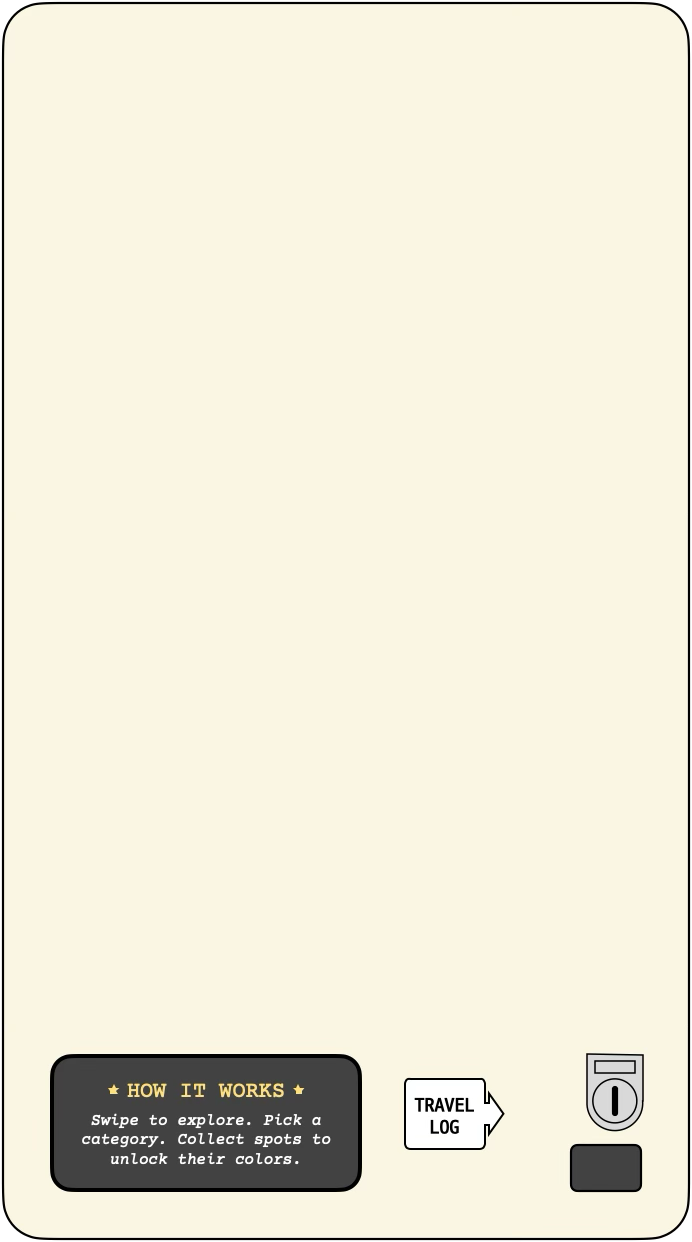
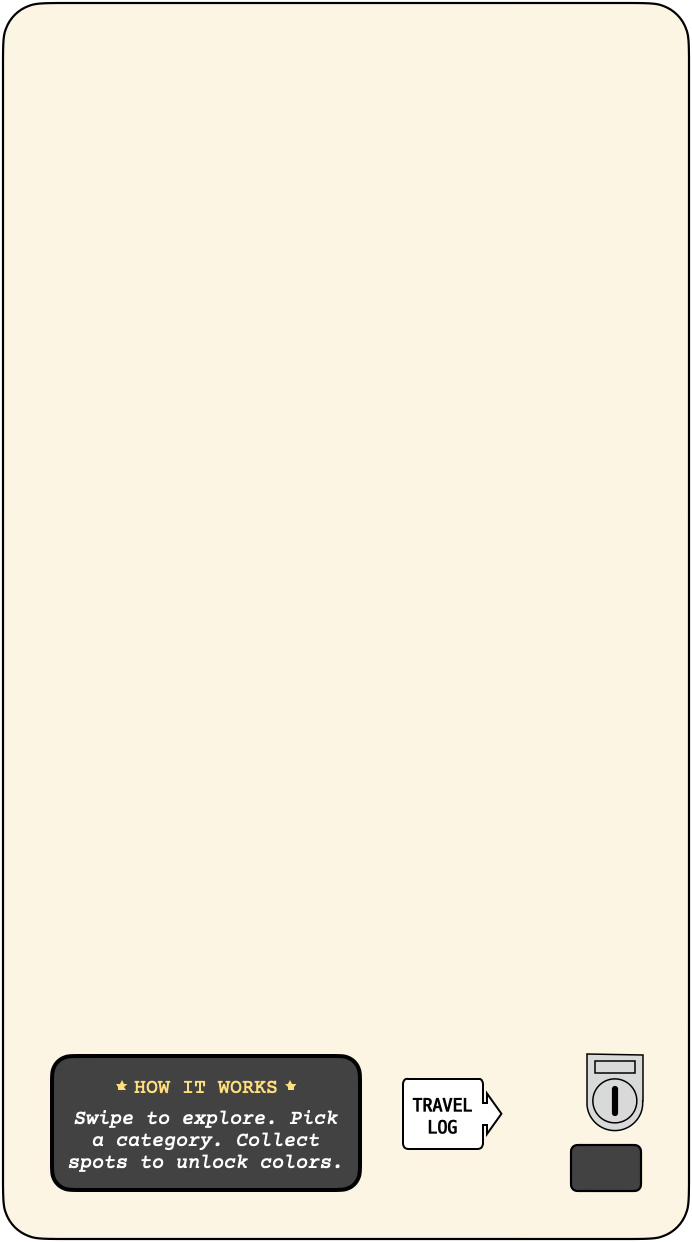
fix: 수정된 api에 맞게 도감 코드 수정

Changed region(s): [[0.091, 0.8567, 0.4855, 0.9485], [0.5766, 0.8567, 0.7283, 0.9179]]

diff --git a/src/shared/api/schema.d.ts b/src/shared/api/schema.d.ts
@@ -919,6 +919,26 @@ export interface paths {
         patch?: never;
         trace?: never;
     };
+    "/api/itineraries/{itineraryId}/days/{dayId}/items/{itemId}/travel-mode/options": {
+        parameters: {
+            query?: never;
+            header?: never;
+            path?: never;
+            cookie?: never;
+        };
+        /**
+         * 이동수단 변경 후보 옵션 조회 (담당: 윤제승)
+         * @description 직전 방문 항목과의 구간에 대해 선택 가능한 이동수단 후보(버스/지하철/택시/도보)와 각각의 실제 소요시간·요금을 조회합니다. DB에 저장된 값이 아니라 매번 새로 계산한 값이며, 확정하려면 이동수단 변경(travel-mode) API를 별도로 호출해야 합니다.
+         */
+        get: operations["getTravelModeOptions"];
+        put?: never;
+        post?: never;
+        delete?: never;
+        options?: never;
+        head?: never;
+        patch?: never;
+        trace?: never;
+    };
     "/api/itineraries/vote-sessions/{sessionId}": {
         parameters: {
             query?: never;
@@ -1494,6 +1514,7 @@ export interface components {
             startStationName?: string;
             endStationName?: string;
             startArsId?: string;
+            transitDetail?: components["schemas"]["TransitDetail"];
             memo?: string;
         };
         SpotSummary: {
@@ -1507,6 +1528,57 @@ export interface components {
             thumbnailUrl?: string;
             collected?: boolean;
             visited?: boolean;
+        };
+        SubwayDeparture: {
+            departureTime?: string;
+            /** Format: int32 */
+            subwayClass?: number;
+            /** Format: int32 */
+            firstLastFlag?: number;
+        };
+        SubwaySegmentTimetable: {
+            /** Format: int32 */
+            subPathIndex?: number;
+            startStationName?: string;
+            endStationName?: string;
+            lineName?: string;
+            /** Format: int32 */
+            wayCode?: number;
+            upcomingDepartures?: components["schemas"]["SubwayDeparture"][];
+            /** Format: int32 */
+            nextDepartureMinutes?: number;
+            transferInfo?: components["schemas"]["SubwayTransitInfo"];
+        };
+        SubwayTransferDetail: {
+            /** Format: int32 */
+            takeStationId?: number;
+            takeLaneName?: string;
+            /** Format: int32 */
+            exStationId?: number;
+            exLaneName?: string;
+            /** Format: int32 */
+            fastTrainNo?: number;
+            /** Format: int32 */
+            fastTrainDoor?: number;
+        };
+        SubwayTransitInfo: {
+            /** Format: int32 */
+            count?: number;
+            transitTotalInfo?: components["schemas"]["SubwayTransferDetail"][];
+        };
+        TransitDetail: {
+            segments?: components["schemas"]["TransitDetailSegment"][];
+        };
+        TransitDetailSegment: {
+            /** Format: int32 */
+            index?: number;
+            trafficType?: string;
+            startName?: string;
+            endName?: string;
+            routeNo?: string;
+            /** Format: int32 */
+            sectionTime?: number;
+            subwaySchedule?: components["schemas"]["SubwaySegmentTimetable"];
         };
         CreateItineraryRequest: {
             planType?: string;
@@ -1844,6 +1916,7 @@ export interface components {
             startStationName?: string;
             endStationName?: string;
             startArsId?: string;
+            transitDetail?: components["schemas"]["TransitDetail"];
         };
         ApiResponseString: {
             success?: boolean;
@@ -2002,6 +2075,11 @@ export interface components {
             /** Format: date-time */
             updatedAt?: string;
         };
+        ApiResponseListTransitOption: {
+            success?: boolean;
+            message?: string;
+            data?: components["schemas"]["TransitOption"][];
+        };
         ApiResponseListGroupMemberResponse: {
             success?: boolean;
             message?: string;
@@ -2042,23 +2120,13 @@ export interface components {
             /** Format: date-time */
             collectedAt?: string;
         };
-        CollectionResponse: {
-            /** Format: uuid */
-            spotId?: string;
-            contentId?: string;
-            name?: string;
-            category?: string;
-            collectionCategory?: string;
-            thumbnailUrl?: string;
-            /** Format: date-time */
-            collectedAt?: string;
-        };
         MyCollectionResponse: {
             /** Format: int64 */
             totalCount?: number;
             /** Format: int64 */
             collectedCount?: number;
-            entries?: components["schemas"]["CollectionResponse"][];
+            entries?: components["schemas"]["CollectionListResponse"][];
+            uncollectedEntries?: components["schemas"]["CollectionListResponse"][];
         };
         BookmarkListResponse: {
             /** Format: uuid */
@@ -3329,6 +3397,30 @@ export interface operations {
                 };
                 content: {
                     "*/*": components["schemas"]["ApiResponseListLogExistenceResponse"];
+                };
+            };
+        };
+    };
+    getTravelModeOptions: {
+        parameters: {
+            query?: never;
+            header?: never;
+            path: {
+                itineraryId: string;
+                dayId: string;
+                itemId: string;
+            };
+            cookie?: never;
+        };
+        requestBody?: never;
+        responses: {
+            /** @description OK */
+            200: {
+                headers: {
+                    [name: string]: unknown;
+                };
+                content: {
+                    "*/*": components["schemas"]["ApiResponseListTransitOption"];
                 };
             };
         };

diff --git a/src/app/collection/page.tsx b/src/app/collection/page.tsx
@@ -1,10 +1,9 @@
 "use client";
 
-import { useEffect, useState } from "react";
+import { useEffect, useMemo, useState } from "react";
 import { useRouter, useSearchParams } from "next/navigation";
 import { VendingMachine } from "@/features/collection/components/VendingMachine";
 import { Shelf } from "@/features/collection/components/Shelf";
-import { useCollectionProgress } from "@/shared/hooks/useCollectionProgress";
 import { useQuery } from "@tanstack/react-query";
 import { getMyCollection, keys as collectionKeys } from "@/shared/api/domains/collection";
 import {
@@ -35,14 +34,17 @@ export default function CollectionPage() {
     queryFn: getMyCollection,
   });
 
-  const spots = collection?.entries ?? [];
+  const spots = useMemo(
+    () => [...(collection?.entries ?? []), ...(collection?.uncollectedEntries ?? [])],
+    [collection],
+  );
 
   useEffect(() => {
     spots.forEach((spot) => {
       if (!spot.name) return;
 
       const image = new window.Image();
-      image.src = `/collection/${spot.name}.png`;
+      image.src = `/collxection/${spot.name}.png`;
     });
   }, [spots]);
 

diff --git a/src/features/collection/components/VendingMachine.tsx b/src/features/collection/components/VendingMachine.tsx
@@ -235,10 +235,10 @@ active:shadow-collection-button-active transition-transform active:translate-x-[
         onClick={handleRecordLeverClick}
         className="absolute left-[76%] top-[87%] z-10 h-[9%] w-[10%]"
       >
-        <span className="absolute bottom-[53%] left-[22%] aspect-square w-[60%] -translate-x-1/2 rounded-full border border-collection-border bg-collection-lever" />
+        <span className="absolute bottom-[53%] left-[21%] aspect-square w-[60%] -translate-x-1/2 rounded-full border border-collection-border bg-collection-lever" />
 
         <span
-          className={`absolute bottom-[68%] left-[22%] h-[50%] w-[12%] origin-bottom -translate-x-1/2 rounded-full border border-collection-border bg-collection-lever transition-transform duration-900 ease-out ${
+          className={`absolute bottom-[68%] left-[21%] h-[50%] w-[12%] origin-bottom -translate-x-1/2 rounded-full border border-collection-border bg-collection-lever transition-transform duration-900 ease-out ${
             isLeverPulled ? "rotate-[35deg]" : "rotate-0"
           }`}
         />
